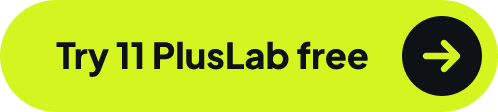
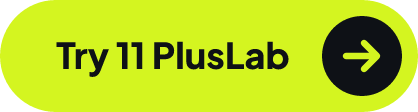
Outreach button: 'Try 11 PlusLab'

diff --git a/server/email.js b/server/email.js
@@ -66,7 +66,7 @@ function p(html) {
 // recolours HTML (lime turns dark green) but never images. Any other label
 // falls back to an HTML pill, which still works, just recoloured in dark mode.
 const BUTTON_IMAGES = {
-  "Start practising": ["btn-start", 230], "Open 11 PlusLab": ["btn-open", 232], "Play a quick round": ["btn-play", 252], "Try 11 PlusLab free": ["btn-try", 249],
+  "Start practising": ["btn-start", 230], "Open 11 PlusLab": ["btn-open", 232], "Play a quick round": ["btn-play", 252], "Try 11 PlusLab": ["btn-try", 209],
 };
 function button({ label, url }) {
   const img = BUTTON_IMAGES[label];
@@ -331,7 +331,7 @@ ${P("It's short, game-style practice for synonyms, antonyms, compound words, spe
 ${P("Children can also add their friends and compete on a weekly leaderboard, which is a big part of what keeps them coming back to practise.")}
 ${P(`Parents can sign up free at <a href="${SITE}" style="color:#0B7FC7;font-weight:700">11pluslab.com</a> and their child can start playing straight away. If you'd like to share it with your students, their parents can use the code <strong style="background:#F3FBD4;padding:2px 6px;border-radius:6px;letter-spacing:.03em">${escapeHtml(code)}</strong> for 20% off their first month of Full Access (£3.99 instead of £4.99).`)}
 <p style="margin:0 0 18px"><a href="${SITE}"><img src="${SITE}/email/outreach-games.png" width="520" height="352" alt="The seven 11 PlusLab games: Synonyms, Antonyms, Compound Words, Word Detective, Punctuation, Spelling and Parts of Speech, plus a Word List" style="display:block;border:0;width:100%;max-width:520px;height:auto;border-radius:16px;font-family:Helvetica,Arial,sans-serif;font-size:13px;color:#5E6C7C"></a></p>
-<p style="margin:4px 0 22px"><a href="${SITE}" style="text-decoration:none"><img src="${SITE}/email/btn-try.png" width="249" height="56" alt="Try 11 PlusLab free →" style="display:block;border:0;font-family:Helvetica,Arial,sans-serif;font-size:16px;font-weight:700;color:#0E1116"></a></p>
+<p style="margin:4px 0 22px"><a href="${SITE}" style="text-decoration:none"><img src="${SITE}/email/btn-try.png?v=2" width="209" height="56" alt="Try 11 PlusLab →" style="display:block;border:0;font-family:Helvetica,Arial,sans-serif;font-size:16px;font-weight:700;color:#0E1116"></a></p>
 ${P("I'd really value your thoughts, even if it's not a fit for you. Just reply to this email.")}
 <table role="presentation" cellpadding="0" cellspacing="0" style="margin:8px 0 26px"><tr>
 <td style="padding-right:12px"><img src="${SITE}/pwa-192.png" width="40" height="40" alt="" style="display:block;border:0;border-radius:10px"></td>
